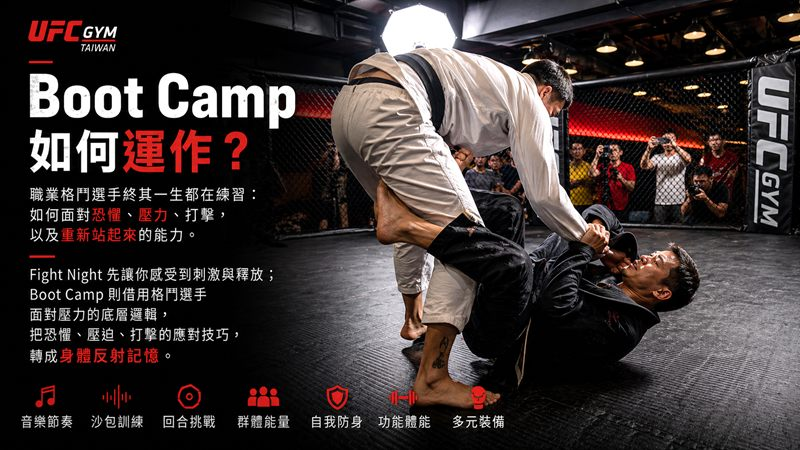
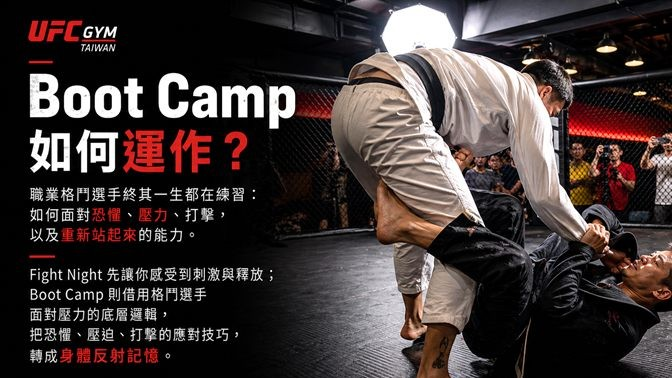
update

diff --git a/src/pages/BootCampPage.tsx b/src/pages/BootCampPage.tsx
@@ -136,9 +136,7 @@ function BootCampHero({
             BOOT CAMP
           </p>
           <h1 className="mt-3 font-heading text-4xl font-black leading-[0.98] text-pearl md:text-6xl">
-            用經驗讓身體與內心成長
-            <br />
-            用習慣改變生活
+            經驗能讓人產生由內至外的蛻變
           </h1>
           <p className="mt-5 max-w-2xl text-base leading-relaxed text-mist/80 md:text-xl">
             買一個讓身體記住正向頻率的習慣
@@ -375,33 +373,72 @@ function BookingSection({
 function BootCampCoreSection() {
   return (
     <SectionWrapper id="boot-camp-core" fullWidth padding="py-10 md:py-20">
-      <div className="mx-auto max-w-6xl border-y border-pearl/10 px-4 py-8 sm:px-8 md:py-12">
-        <div className="max-w-3xl">
-          <p className="font-heading text-xs font-semibold uppercase tracking-[0.28em] text-neon md:text-sm">
-            {bootCampCoreContent.eyebrow}
-          </p>
-          <h2 className="mt-3 font-heading text-3xl font-black leading-tight text-pearl md:text-5xl">
-            {bootCampCoreContent.title}
-          </h2>
-          <p className="mt-4 text-base leading-relaxed text-mist/75 md:text-lg">
-            {bootCampCoreContent.description}
-          </p>
-        </div>
+      <div className="mx-auto max-w-6xl px-3 sm:px-8">
+        <div className="overflow-hidden border-y border-pearl/10 bg-black/28 sm:rounded-3xl sm:border">
+          <div className="grid gap-0 md:grid-cols-[1.05fr_0.95fr]">
+            <div className="border-b border-pearl/10 p-5 sm:p-8 md:border-b-0 md:border-r md:p-10">
+              <p className="font-heading text-xs font-semibold uppercase tracking-[0.28em] text-neon md:text-sm">
+                {bootCampCoreContent.eyebrow}
+              </p>
+              <h2 className="mt-3 font-heading text-4xl font-black leading-tight text-pearl md:text-5xl">
+                {bootCampCoreContent.title}
+              </h2>
+              <p className="mt-5 text-lg font-heading font-bold leading-relaxed text-pearl md:text-2xl">
+                {bootCampCoreContent.description}
+              </p>
 
-        <div className="mt-7 grid grid-cols-1 gap-3 md:grid-cols-3">
-          {bootCampCoreContent.pillars.map((pillar) => (
-            <div
-              key={pillar.title}
-              className="rounded-2xl border border-pearl/10 bg-black/25 p-4 md:p-5"
-            >
-              <p className="font-heading text-base font-semibold text-pearl">
-                {pillar.title}
-              </p>
-              <p className="mt-2 text-sm leading-relaxed text-mist/65">
-                {pillar.description}
-              </p>
+              <div className="mt-5 flex flex-wrap gap-2">
+                {bootCampCoreContent.keywords.map((keyword) => (
+                  <span
+                    key={keyword}
+                    className="rounded-full border border-blaze/25 bg-blaze/10 px-3 py-1.5 text-xs font-heading font-semibold tracking-wide text-blaze"
+                  >
+                    {keyword}
+                  </span>
+                ))}
+              </div>
             </div>
-          ))}
+
+            <div className="grid content-between gap-4 p-5 sm:p-8 md:p-10">
+              <div className="rounded-2xl border border-pearl/10 bg-black/35 p-4">
+                <p className="font-heading text-xs uppercase tracking-[0.22em] text-mist/45">
+                  Fight Night
+                </p>
+                <p className="mt-2 text-sm leading-relaxed text-mist/76 md:text-base">
+                  {bootCampCoreContent.contrast.fightNight}
+                </p>
+              </div>
+
+              <div className="rounded-2xl border border-neon/25 bg-neon/10 p-4">
+                <p className="font-heading text-xs uppercase tracking-[0.22em] text-neon/80">
+                  Boot Camp
+                </p>
+                <p className="mt-2 text-sm leading-relaxed text-mist/86 md:text-base">
+                  {bootCampCoreContent.contrast.bootCamp}
+                </p>
+              </div>
+            </div>
+          </div>
+
+          <div className="grid border-t border-pearl/10 md:grid-cols-3">
+            {bootCampCoreContent.pillars.map((pillar, index) => (
+              <motion.div
+                key={pillar.title}
+                initial={{ opacity: 0, y: 18 }}
+                whileInView={{ opacity: 1, y: 0 }}
+                viewport={{ once: true }}
+                transition={{ duration: 0.55, delay: index * 0.08 }}
+                className="border-b border-pearl/10 p-5 last:border-b-0 md:border-b-0 md:border-r md:p-6 md:last:border-r-0"
+              >
+                <p className="font-heading text-lg font-black text-pearl">
+                  {pillar.title}
+                </p>
+                <p className="mt-2 text-sm leading-relaxed text-mist/68 md:text-base">
+                  {pillar.description}
+                </p>
+              </motion.div>
+            ))}
+          </div>
         </div>
       </div>
     </SectionWrapper>
@@ -434,6 +471,7 @@ export function BootCampPage() {
           onPrimaryAction={() => scrollTo('boot-camp-routes')}
           onExpectationAction={() => scrollTo('boot-camp-expectation')}
         />
+        <BootCampCoreSection />
         <ExpectationSection onBookingAction={() => scrollTo('boot-camp-routes')} />
         <RouteSection
           selectedRoute={selectedRoute}
@@ -443,7 +481,6 @@ export function BootCampPage() {
           selectedRoute={selectedRoute}
           onRouteChange={setSelectedRoute}
         />
-        <BootCampCoreSection />
         <FAQSection
           id="boot-camp-faq"
           title="Boot Camp 常見問題"

diff --git a/src/data/landingContent.ts b/src/data/landingContent.ts
@@ -356,22 +356,32 @@ export const offersPlanSectionContent = {
 }
 
 export const bootCampCoreContent = {
-  eyebrow: 'BOOT CAMP CORE',
-  title: '先把位置訂下來，改變才有地方發生。',
+  eyebrow: 'BOOT CAMP HOW IT WORKS',
+  title: 'Boot Camp 如何運作？',
   description:
-    '保留接下來四週同一個時間。每週回到場館，讓穩住、釋放、往前的感覺開始留在身體裡。',
+    '職業格鬥選手終其一生都在練習：如何面對恐懼、壓力、打擊，以及重新站起來的能力。',
+  contrast: {
+    fightNight:
+      'Fight Night 先讓你感受到刺激與釋放，確認身體還能被點燃。',
+    bootCamp:
+      'Boot Camp 則借用 Fighter 面對壓力的底層邏輯，把恐懼、壓迫與打擊的應對方式，轉成身體反射記憶。',
+  },
+  keywords: ['恐懼', '壓力', '打擊', '重新站起來'],
   pillars: [
     {
-      title: '察覺壓力',
-      description: '先聽見身體在緊、在亂、在想逃的瞬間。',
+      title: '01 進入壓力',
+      description:
+        '不是把你丟進失控強度，而是在可承受的範圍內，讓身體真的遇到壓力。',
     },
     {
-      title: '回到身體',
-      description: '用呼吸、姿態與教練口令，把注意力拉回可以控制的地方。',
+      title: '02 被教練接住',
+      description:
+        '透過口令、回合與動作節奏，把慌亂拉回呼吸、姿態、重心與下一個動作。',
     },
     {
-      title: '做出下一步',
-      description: '在疲累和壓迫感裡完成動作，留下自己能往前的證據。',
+      title: '03 形成記憶',
+      description:
+        '重複經歷穩住、釋放、往前，讓壓力來的時候，身體多一個可以反應的選項。',
     },
   ],
 }